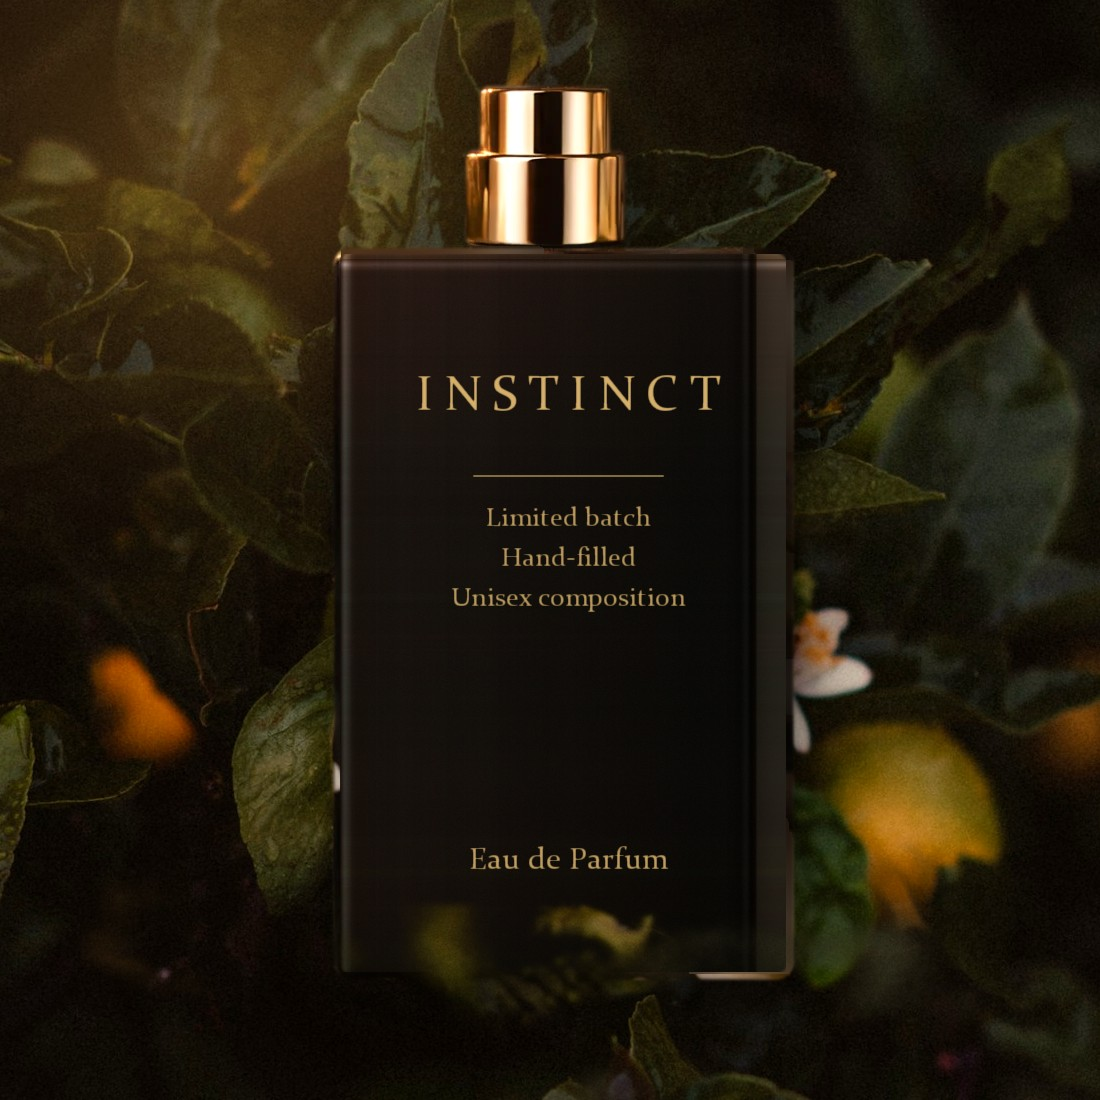
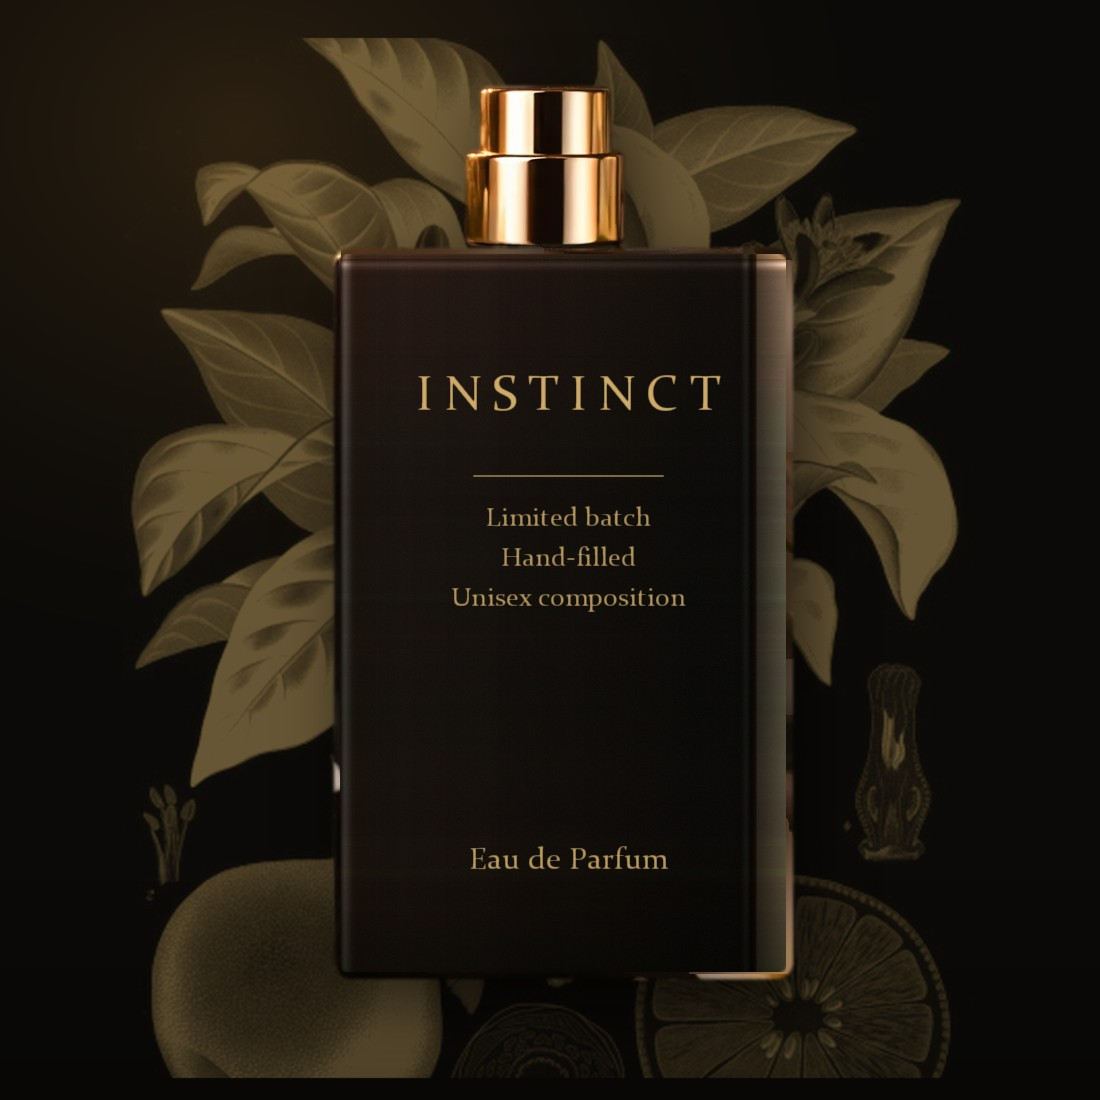
Collections pair: public-domain botanical engravings behind both bottles
Instinct stands before Koehler's 1887 Citrus bergamia plate, Ritual
before Curtis's 1787 jasmine, both re-rendered as warm gold
engravings on the page ink. Original ritual-jasmine.webp retained in
assets.

diff --git a/index.html b/index.html
@@ -649,7 +649,7 @@ footer{
           </div>
 
           <figure class="scent__figure">
-            <img src="assets/instinct-bottle.jpg" alt="Instinct eau de parfum, a black bottle with a gold cap, among dark citrus leaves and blossom" width="1100" height="1100" loading="lazy">
+            <img src="assets/instinct-bottle.jpg" alt="Instinct eau de parfum before a gold botanical engraving of bergamot, after Köhler, 1887" width="1100" height="1100" loading="lazy">
           </figure>
         </div>
 
@@ -674,7 +674,7 @@ footer{
           </div>
 
           <figure class="scent__figure">
-            <img src="assets/ritual-jasmine.webp" alt="Ritual eau de parfum, a black bottle with a gold cap, lying among white blossoms" width="1100" height="1100" loading="lazy">
+            <img src="assets/ritual-engraved.jpg" alt="Ritual eau de parfum before a gold botanical engraving of jasmine, after Curtis, 1787" width="1100" height="1100" loading="lazy">
           </figure>
         </div>
       </div>
